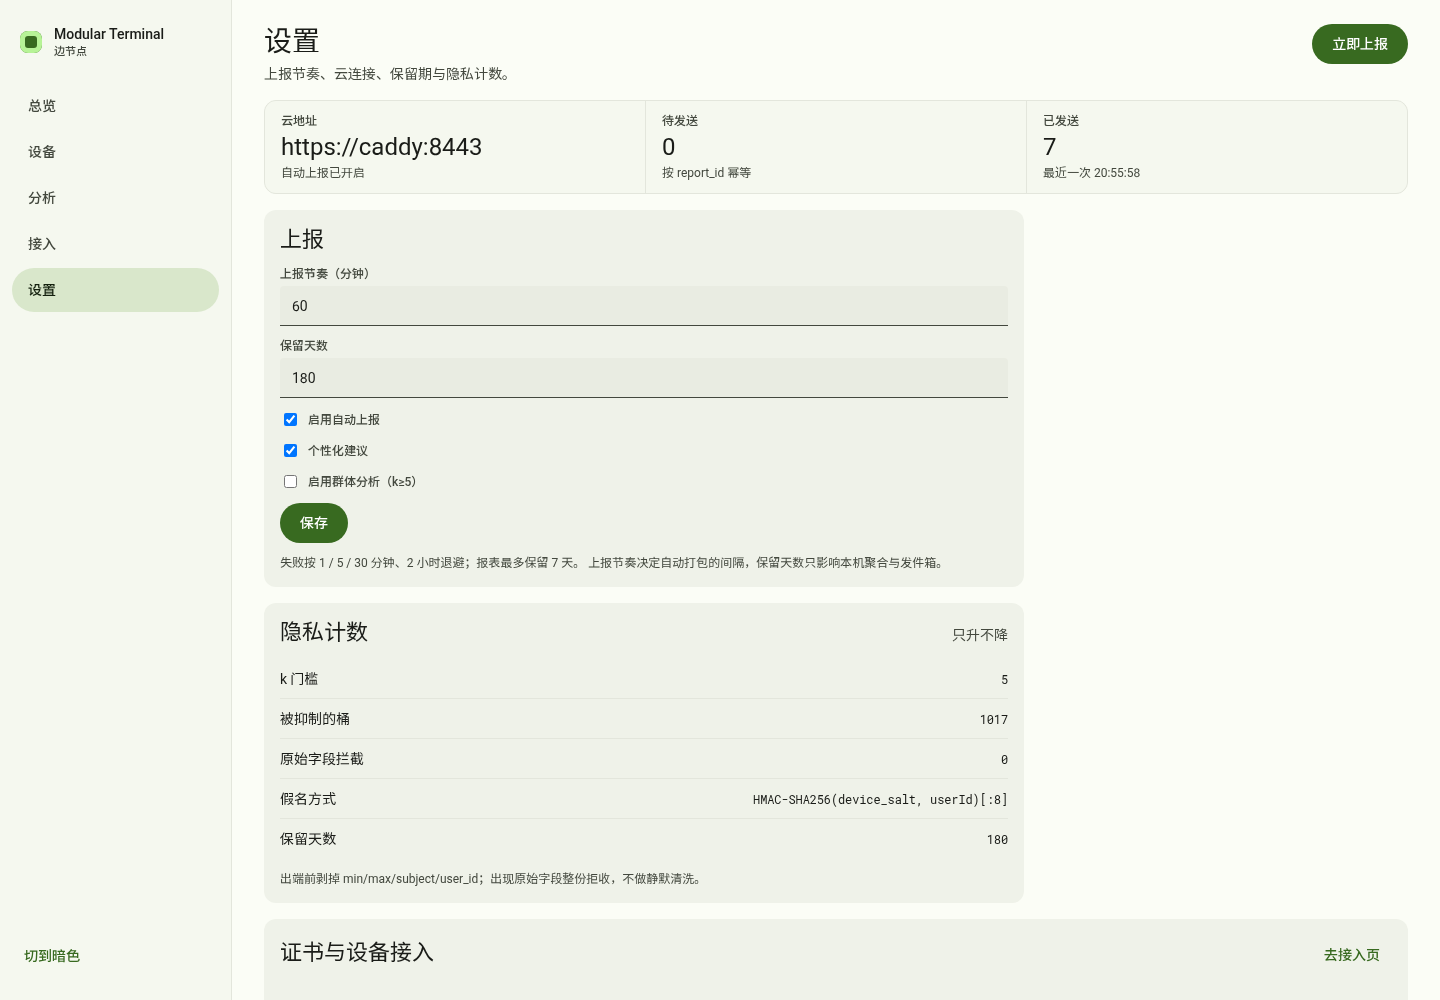
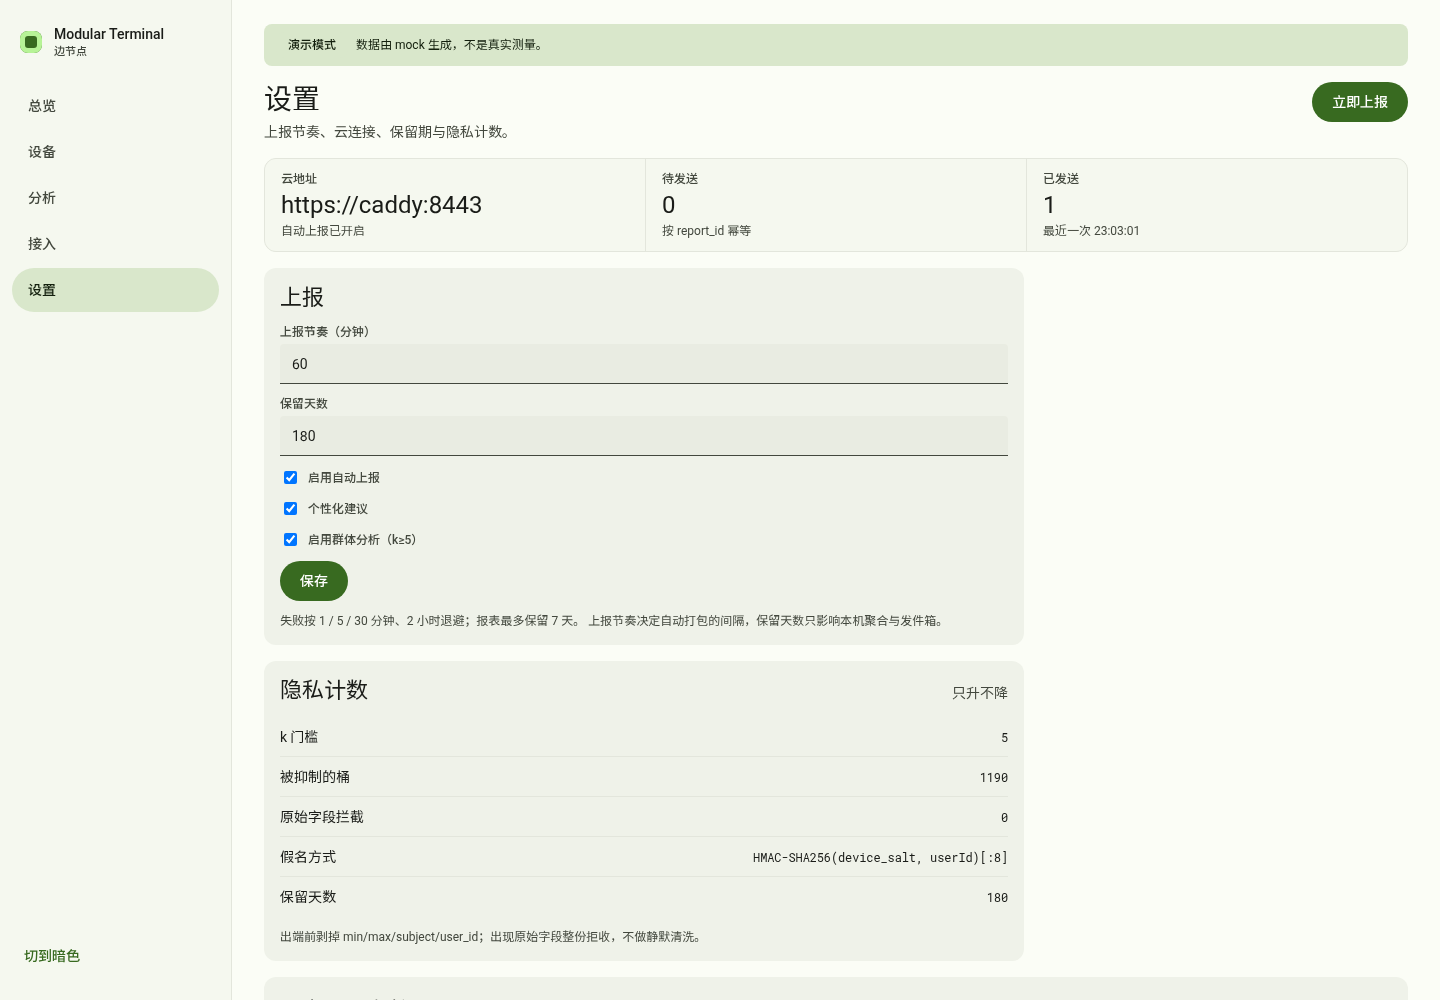
feat(edge): 对齐文档 §5.1/§5.6/§5.9/§8 的剩余差异
- §5.1 每日 SQLite 快照，保留 7 份（设了 EDGE_DB_KEY 时交给运维）
- §5.6 总览设备卡补在线状态、最近上报、24h 告警数
- §5.9 TXT 去掉不在白名单里的 name；静态地址支持 /etc/orange-pi-terminal/cloud.json 兜底
- §5.5 /health 增加 demo、构建号与云链路最近一次投递状态
- §8.1 L2 聚合 180 天、L3 文本 365 天分开清理
- §8.3/§8.5 演示环境显式开群体分析并写审计；前端挂「演示模式」横幅
- 接入页两栏等高，补齐截图

验证：32 个测试、5 页冒烟、6 个视图 × 3 宽度 0 FAIL。mDNS 在容器内实测发现到 https://172.20.0.5:8443。

diff --git a/web/src/App.vue b/web/src/App.vue
@@ -1,5 +1,5 @@
 <script setup>
-import { computed, ref } from 'vue'
+import { computed, onMounted, ref } from 'vue'
 import { useRoute } from 'vue-router'
 
 const route = useRoute()
@@ -17,6 +17,15 @@ const active = computed(() => {
   const p = route.path
   if (p.startsWith('/devices')) return '/devices'
   return p
+})
+
+// 演示模式横幅：数据由 mock 生成（文档 §8.5）
+const demo = ref(false)
+onMounted(async () => {
+  try {
+    const r = await fetch('/api/v1/health')
+    if (r.ok) demo.value = Boolean((await r.json()).demo)
+  } catch { /* 自检不可达时不挂横幅 */ }
 })
 
 const theme = ref(document.documentElement.dataset.theme || 'light')
@@ -57,6 +66,10 @@ function toggleTheme() {
     </aside>
 
     <main class="content" tabindex="-1">
+      <div v-if="demo" class="demo-banner" role="status">
+        <span class="md-chip md-chip--warn">演示模式</span>
+        <span>数据由 mock 生成，不是真实测量。</span>
+      </div>
       <RouterView />
     </main>
   </div>
@@ -136,6 +149,18 @@ function toggleTheme() {
 .content {
   padding: var(--space-5) var(--space-6) var(--space-6);
   min-width: 0;
+}
+
+.demo-banner {
+  display: flex;
+  align-items: center;
+  gap: var(--space-2);
+  margin-bottom: var(--space-4);
+  padding: var(--space-2) var(--space-3);
+  border-radius: var(--md-shape-sm);
+  background: var(--md-secondary-container);
+  color: var(--md-on-secondary-container);
+  font: var(--md-body-small);
 }
 
 @media (max-width: 900px) {

diff --git a/web/src/views/Overview.vue b/web/src/views/Overview.vue
@@ -84,15 +84,19 @@ const kpis = () => {
       <article v-for="lane in o?.lanes || []" :key="lane.device_id" class="lane">
         <header>
           <strong>{{ lane.name }}</strong>
+          <span class="md-chip" :class="lane.online ? 'md-chip--ok' : 'md-chip--warn'">
+            {{ lane.online ? '在线' : '离线' }}
+          </span>
           <span class="md-chip">{{ lane.scene }}</span>
+          <span v-if="lane.alerts_24h" class="md-chip md-chip--alert">告警 {{ lane.alerts_24h }}</span>
           <span class="md-mono md-muted">{{ lane.device_id }}</span>
         </header>
         <div class="ticks" :aria-label="`${lane.device_id} 最近 24 个窗口`">
           <span v-for="(t, i) in lane.ticks" :key="i" class="tick" :class="{ 'tick--on': t }"></span>
         </div>
         <div class="lane-meta">
-          <span>最小 k {{ lane.k }}</span>
-          <span>{{ lane.fill }}% 到达</span>
+          <span>最近上报 {{ fmtTime(lane.last_seen) }}</span>
+          <span>最小 k {{ lane.k }} · {{ lane.fill }}% 到达</span>
         </div>
         <dl class="lane-metrics">
           <div v-for="m in lane.metrics.slice(0, 4)" :key="m.metric">

diff --git a/web/src/views/Access.vue b/web/src/views/Access.vue
@@ -188,7 +188,7 @@ onMounted(load)
 .note { font: var(--md-body-small); color: var(--md-on-surface-variant); }
 .duo {
   display: grid; grid-template-columns: minmax(0, 1.4fr) minmax(0, 1fr);
-  gap: var(--space-4); align-items: start;
+  gap: var(--space-4); align-items: stretch;
 }
 .section-head {
   display: flex; justify-content: space-between; align-items: baseline;

diff --git a/edge/config.py b/edge/config.py
@@ -1,6 +1,7 @@
 """运行时配置。全部来自环境变量，默认值只适合单机演示。"""
 from __future__ import annotations
 
+import json
 import os
 from pathlib import Path
 
@@ -20,7 +21,20 @@ EDGE_ID = _env("EDGE_ID", "edge-lab-01")
 EDGE_NAME = _env("EDGE_NAME", "实验室边节点")
 PUBLIC_URL = _env("EDGE_PUBLIC_URL", "http://127.0.0.1:8001")
 
-CLOUD_URL = _env("EDGE_CLOUD_URL").rstrip("/")
+def _cloud_url() -> str:
+    """文档 §5.9：静态地址兜底。环境变量优先，其次 /etc/orange-pi-terminal/cloud.json。"""
+    url = _env("EDGE_CLOUD_URL")
+    if url:
+        return url.rstrip("/")
+    path = Path(_env("EDGE_STATIC_CONFIG", "/etc/orange-pi-terminal/cloud.json"))
+    try:
+        data = json.loads(path.read_text())
+        return str(data.get("url") or data.get("cloud_url") or "").rstrip("/")
+    except (OSError, ValueError, AttributeError):
+        return ""
+
+
+CLOUD_URL = _cloud_url()
 CLOUD_TOKEN = _env("EDGE_CLOUD_TOKEN")
 
 # 空的 ingest token 表示只接受本机写入，见 README「安全边界」。
@@ -52,7 +66,14 @@ JANITOR_INTERVAL_MS = int(_env("EDGE_JANITOR_INTERVAL_MS", str(6 * 60 * 60 * 100
 # 设了就要求 SQLCipher；没有驱动就拒绝启动，不静默降级成明文
 DB_KEY = _env("EDGE_DB_KEY")
 WINDOW_MS = int(_env("EDGE_WINDOW_MS", str(5 * 60 * 1000)))
+# L2 聚合保留 180 天，L3 文本保留 365 天（文档 §8.1）
 KEEP_DAYS = int(_env("EDGE_KEEP_DAYS", "180"))
+TEXT_KEEP_DAYS = int(_env("EDGE_TEXT_KEEP_DAYS", "365"))
+# 每日快照 + 7 天保留（文档 §5.1）
+SNAPSHOT_KEEP = int(_env("EDGE_SNAPSHOT_KEEP", "7"))
+# 演示模式：compose 默认开，UI 挂「演示模式」横幅（文档 §8.5）
+DEMO = _env("EDGE_DEMO", "1") != "0"
+BUILD = _env("EDGE_BUILD", "dev")
 
 
 def ensure_dirs() -> None:

diff --git a/edge/scheduler.py b/edge/scheduler.py
@@ -13,15 +13,24 @@ from . import analysis, cloudpush, config, store
 
 
 def prune(retention_days: int) -> dict[str, int]:
-    """按天清理边上的聚合与建议，保留期默认 180 天。"""
+    """按天清理边上的聚合与建议：L2 默认 180 天，L3 文本 365 天。"""
     cutoff = store.now_ms() - retention_days * 86_400_000
+    text_cutoff = store.now_ms() - config.TEXT_KEEP_DAYS * 86_400_000
     with store.connect() as conn:
         agg = conn.execute("DELETE FROM aggregates WHERE ts_to < ?", (cutoff,)).rowcount
         tel = conn.execute("DELETE FROM telemetry WHERE ts_to < ?", (cutoff,)).rowcount
-        adv = conn.execute("DELETE FROM advice WHERE created_at < ?", (cutoff,)).rowcount
+        adv = conn.execute("DELETE FROM advice WHERE created_at < ?", (text_cutoff,)).rowcount
         out = conn.execute(
             "DELETE FROM outbox WHERE sent_at IS NOT NULL AND created_at < ?", (cutoff,)).rowcount
     return {"aggregates": agg, "telemetry": tel, "advice": adv, "outbox": out}
+
+
+def snapshot() -> dict[str, Any]:
+    name = store.snapshot(config.SNAPSHOT_KEEP)
+    if name:
+        store.audit_action("system", "db.snapshot", "edge",
+                           {"file": name, "keep": config.SNAPSHOT_KEEP})
+    return {"snapshot": name}
 
 
 def check_certs() -> dict[str, int]:
@@ -72,6 +81,7 @@ class Scheduler:
             retention = store.get_settings().get("retention_days", config.KEEP_DAYS)
             await asyncio.to_thread(prune, int(retention))
             await asyncio.to_thread(check_certs)
+            await asyncio.to_thread(snapshot)
 
     def start(self) -> None:
         if self.task is None:

diff --git a/edge/analysis.py b/edge/analysis.py
@@ -224,6 +224,9 @@ def overview() -> dict[str, Any]:
             "SELECT COUNT(*) FROM advice WHERE created_at>=?", (day_ago,)).fetchone()[0]
         alerts = conn.execute(
             "SELECT COUNT(*) FROM advice WHERE created_at>=? AND risk='alert'", (day_ago,)).fetchone()[0]
+        alerts_by_dev = {r[0]: r[1] for r in conn.execute(
+            "SELECT device_id, COUNT(*) FROM advice WHERE created_at>=? AND risk='alert'"
+            " GROUP BY device_id", (day_ago,))}
     c = store.counters()
     settings = store.get_settings()
     pending = [o for o in store.outbox(100) if not o["sent_at"]]
@@ -242,6 +245,7 @@ def overview() -> dict[str, Any]:
         lanes.append({
             "device_id": d["device_id"], "name": d["name"], "scene": d["scene"],
             "online": d["online"], "last_seen": d["last_seen"],
+            "alerts_24h": alerts_by_dev.get(d["device_id"], 0),
             "modules": d["modules"],
             "ticks": ticks, "fill": round(sum(ticks) / len(ticks) * 100),
             "k": min([a["k"] for a in latest] or [0]),
@@ -256,7 +260,7 @@ def overview() -> dict[str, Any]:
     findings = [f for f in (finding(d["device_id"]) for d in devs) if f]
     return {
         "edge_id": config.EDGE_ID, "edge_name": config.EDGE_NAME,
-        "generated_at": now,
+        "demo": config.DEMO, "generated_at": now,
         "devices_total": len(devs), "devices_online": online,
         "batches_24h": batches_24h, "advice_24h": advice_24h, "alerts_24h": alerts,
         "suppressed_buckets": c.get("suppressed_buckets", 0),

diff --git a/edge/store.py b/edge/store.py
@@ -281,6 +281,25 @@ def insert_batch(device_id: str, batch_id: str, ts_from: int, ts_to: int,
         return True
 
 
+def snapshot(keep: int = 7) -> str | None:
+    """每日一次 SQLite 快照，保留最近 keep 份（文档 §5.1）。"""
+    import datetime as dt
+    import sqlite3
+
+    if config.DB_KEY:  # SQLCipher 库不能用标准 sqlite3 备份，交给运维
+        return None
+    out = config.DATA_DIR / "snapshots"
+    out.mkdir(parents=True, exist_ok=True)
+    name = out / f"edge-{dt.date.today():%Y%m%d}.db"
+    if name.exists():
+        return name.name
+    with connect() as src, sqlite3.connect(name) as dst:
+        src.backup(dst)
+    for old in sorted(out.glob("edge-*.db"))[:-keep]:
+        old.unlink(missing_ok=True)
+    return name.name
+
+
 def add_advice(device_id: str, text: str, risk: str, confidence: float,
                source: str, created_at: int) -> int:
     """单条建议入库（advice 主题用）。同一 (device, text, 分钟) 只算一次。"""

diff --git a/edge/api.py b/edge/api.py
@@ -359,13 +359,19 @@ def health() -> dict[str, Any]:
     except Exception:  # noqa: BLE001 —— 自检要吞掉任何异常并如实报告
         db_ok = False
     c = store.counters()
+    last = (store.outbox(1) or [None])[0]
     return {
         "ok": db_ok,
         "edge_id": config.EDGE_ID,
+        "demo": config.DEMO,
+        "build": config.BUILD,
         "db": "ok" if db_ok else "fail",
         "ingest_token": "set" if config.INGEST_TOKEN else "open",
         "admin_token": "set" if config.ADMIN_TOKEN else "open",
         "cloud_url": config.CLOUD_URL or None,
+        "cloud": {"configured": bool(config.CLOUD_URL),
+                  "last_sent_at": (last or {}).get("sent_at"),
+                  "last_error": (last or {}).get("last_error")},
         "batches": c.get("batches", 0),
         "raw_rejected": c.get("raw_rejected", 0),
         "suppressed_buckets": c.get("suppressed_buckets", 0),

diff --git a/tests/test_scheduler.py b/tests/test_scheduler.py
@@ -43,6 +43,19 @@ class BackoffTest(unittest.TestCase):
         self.assertTrue(any(r["report_id"] == "r-due" for r in store.due_reports()))
 
 
+class SnapshotTest(unittest.TestCase):
+    def test_snapshot_written_once_per_day(self):
+        store.init_db()
+        out = scheduler.snapshot()
+        name = out["snapshot"]
+        self.assertTrue(name)
+        path = config.DATA_DIR / "snapshots" / name
+        self.assertTrue(path.exists())
+        self.assertGreater(path.stat().st_size, 0)
+        # 同一天再跑一次不会重复写
+        self.assertEqual(scheduler.snapshot()["snapshot"], name)
+
+
 class PruneTest(unittest.TestCase):
     def test_prune_removes_only_old_rows(self):
         store.init_db()

diff --git a/edge/sim.py b/edge/sim.py
@@ -247,6 +247,12 @@ def generate(days: int = 7, seed: int | None = None) -> dict[str, int]:
     store.bump("suppressed_buckets", suppressed)
     from . import analysis
     analysis.rebuild_words()
+    # 文档 §8.3/§8.5：演示环境显式开启群体分析，并把初始化写进审计
+    if config.DEMO:
+        store.set_settings({"group_analysis": True})
+        store.audit_action("system", "seed.demo", config.EDGE_ID,
+                           {"operator": "sim", "build": config.BUILD, "days": days,
+                            "batches": inserted, "suppressed": suppressed})
     return {"batches": inserted, "suppressed": suppressed, "days": days,
             "devices": len(devices)}
 

diff --git a/edge/mdns.py b/edge/mdns.py
@@ -25,7 +25,6 @@ def edge_txt(port: int = 8001) -> dict[bytes, bytes]:
     return {
         b"v": b"1",
         b"id": config.EDGE_ID.encode(),
-        b"name": config.EDGE_NAME.encode(),
         b"port": str(port).encode(),
         b"ca_fp": security.ca_fingerprint().split(":")[-1][:16].encode(),
     }

diff --git a/README.md b/README.md
@@ -99,13 +99,15 @@ HTTPS  POST /ingest/telemetry                                   ← 兜底通道
 | 边 CA / 设备证书 | CN=deviceId、OU=mt-device、365 天、ECDSA P-256 | `tests/test_security.py` |
 | 配对码 | 6 位 / 10 分钟 / 一次性 / 绑定公钥指纹 / 5 次失败锁 10 分钟 | 同上 |
 | 吊销与 CRL | 吊销后 `verify()` 失败，CRL 可下载 | 同上 |
-| mDNS | 广播 `_orpi-edge._tcp`、发现 `_orpi-device._tcp` 与 `_orpi-cloud._tcp`（云地址优先发现、静态兜底） | `edge/mdns.py`；组播不可用时自动退化 |
+| mDNS | 广播 `_orpi-edge._tcp`、发现 `_orpi-device._tcp` 与 `_orpi-cloud._tcp`；静态地址（环境变量或 `cloud.json`）兜底 | `edge/mdns.py`；容器内实测发现到 `https://172.20.0.5:8443`，组播不可用时退化 |
 | 定时上云 | 每小时生成报表 + 到期队列投递 | `tests/test_scheduler.py` |
-| 退避与保留期 | 1/5/30 分钟、2 小时；按天清理过期聚合 | 同上 |
+| 退避与保留期 | 1/5/30 分钟、2 小时；L2 聚合保留 180 天、L3 文本 365 天 | 同上 |
 | 隐私闸门 | k<5 抑制、原始字段整份 422、min/max/subject 不出端 | `tests/test_contracts.py` |
 | 证书校验 | 出站前用同一份契约再验一次 | `cloudpush.send` |
 | 指标目录 | 端报什么就登记什么，前端下拉框动态生成 | `edge/catalog.py` + `/api/v1/metrics` |
 | 磁盘加密 | 设 `EDGE_DB_KEY` 时强制走 SQLCipher，没驱动就拒绝启动 | `store._driver` |
+| 每日快照 | 每天一份 SQLite 快照，保留最近 7 份；设了 `EDGE_DB_KEY` 时交给运维脚本 | `store.snapshot` + `tests/test_scheduler.py` |
+| 演示模式 | 演示环境显式开启群体分析并写审计（时间/操作者/构建号）；前端挂「演示模式」横幅 | `edge/sim.py`、`/api/v1/health` 的 `demo` |
 | 词频 TF-IDF | jieba 分词 + 停用词，按天重算，查询时用 TF-IDF 加权（跨天高频词降权） | `/api/v1/wordcloud`，页面点词下钻到建议原文 |
 | WiFi 配置生成 | 管理员给无头终端生成 `wpa_supplicant.conf`；口令只在请求里出现，不落库、审计只记长度 | `POST /api/v1/devices/{id}/wifi-config` |
 
@@ -160,12 +162,12 @@ MQTT 真实报文往返、退避序列与保留期清理。
 
 | 文档条目 | 要求 | 现状 |
 |---|---|---|
-| §5.1 部署形态 | Compose 四服务 | ✅ `docker/compose.yml` 起 mosquitto + ingest + api + web 四个服务；ingest 与 api 共用镜像、按角色挂不同路由 |
+| §5.1 部署形态 | Compose 四服务、每日快照 | ✅ 四个服务齐全；每日快照保留 7 份（`data/snapshots/`），路径可用 `EDGE_DATA_DIR` 指到 `/srv/...` |
 | §5.2 接入与主题 | 5 个主题、QoS1、retained status、幂等 | ✅ 全部实现，ACK 回执带 batch_id |
 | §5.3 存储 | devices/telemetry/aggregates/advice/word_freq | ✅ 另加 catalog、certs、revoked、audit、outbox |
 | §5.4 分析 | 趋势 / 热力 / 词云 / 异常 | ✅ 四项都在页面上，数字全部重算 |
 | §5.5 API | 10 个端点 | ✅ 全部实现，另有 metrics/certs/pair/renew |
-| §5.6 前端 | Vue3 + Vite + ECharts，五页 | ✅ 五页齐全（总览/设备/分析/接入/设置）；上云并入设置页；样式为自写 M3 token |
+| §5.6 前端 | Vue3 + Vite + ECharts，五页 | ✅ 五页齐全；总览保留设备卡（在线/最近上报/告警数）与今日建议流；上云并入设置页；演示环境挂横幅 |
 | §5.7 设备接入 | CA、配对码、365 天证书、吊销、续期 | ✅ 前四项完成；续期是**设备主动 renew + 30 天提醒**。边不代签是刻意的：代签要托管设备私钥 |
 | §5.8 边→云 | 每小时批量、幂等、退避 | ✅ 1/5/30 分钟、2 小时退避，7 天 |
 | §5.9 mDNS | 广播 + 发现，TXT 只放 ID/型号/版本/端口/CA 指纹 | ✅ 组播不可用时自动退化为已登记清单 |
